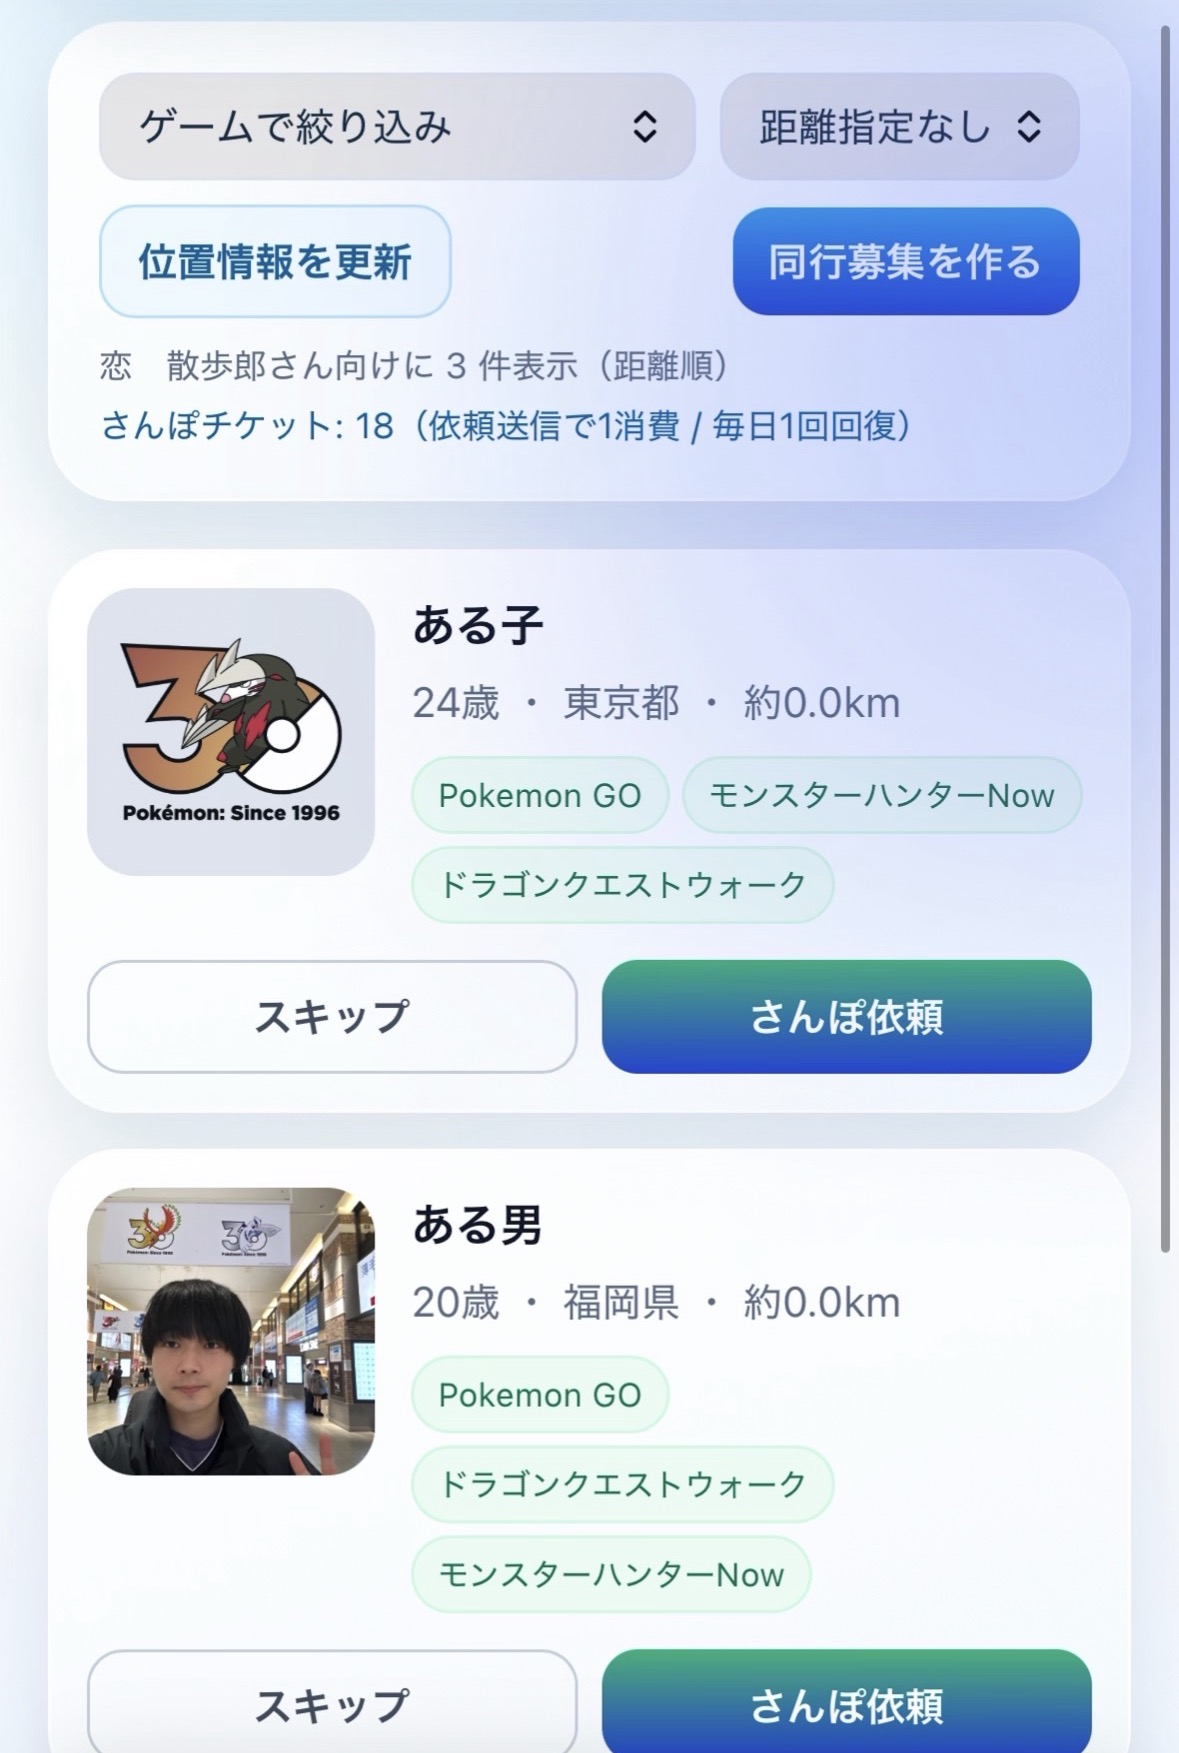
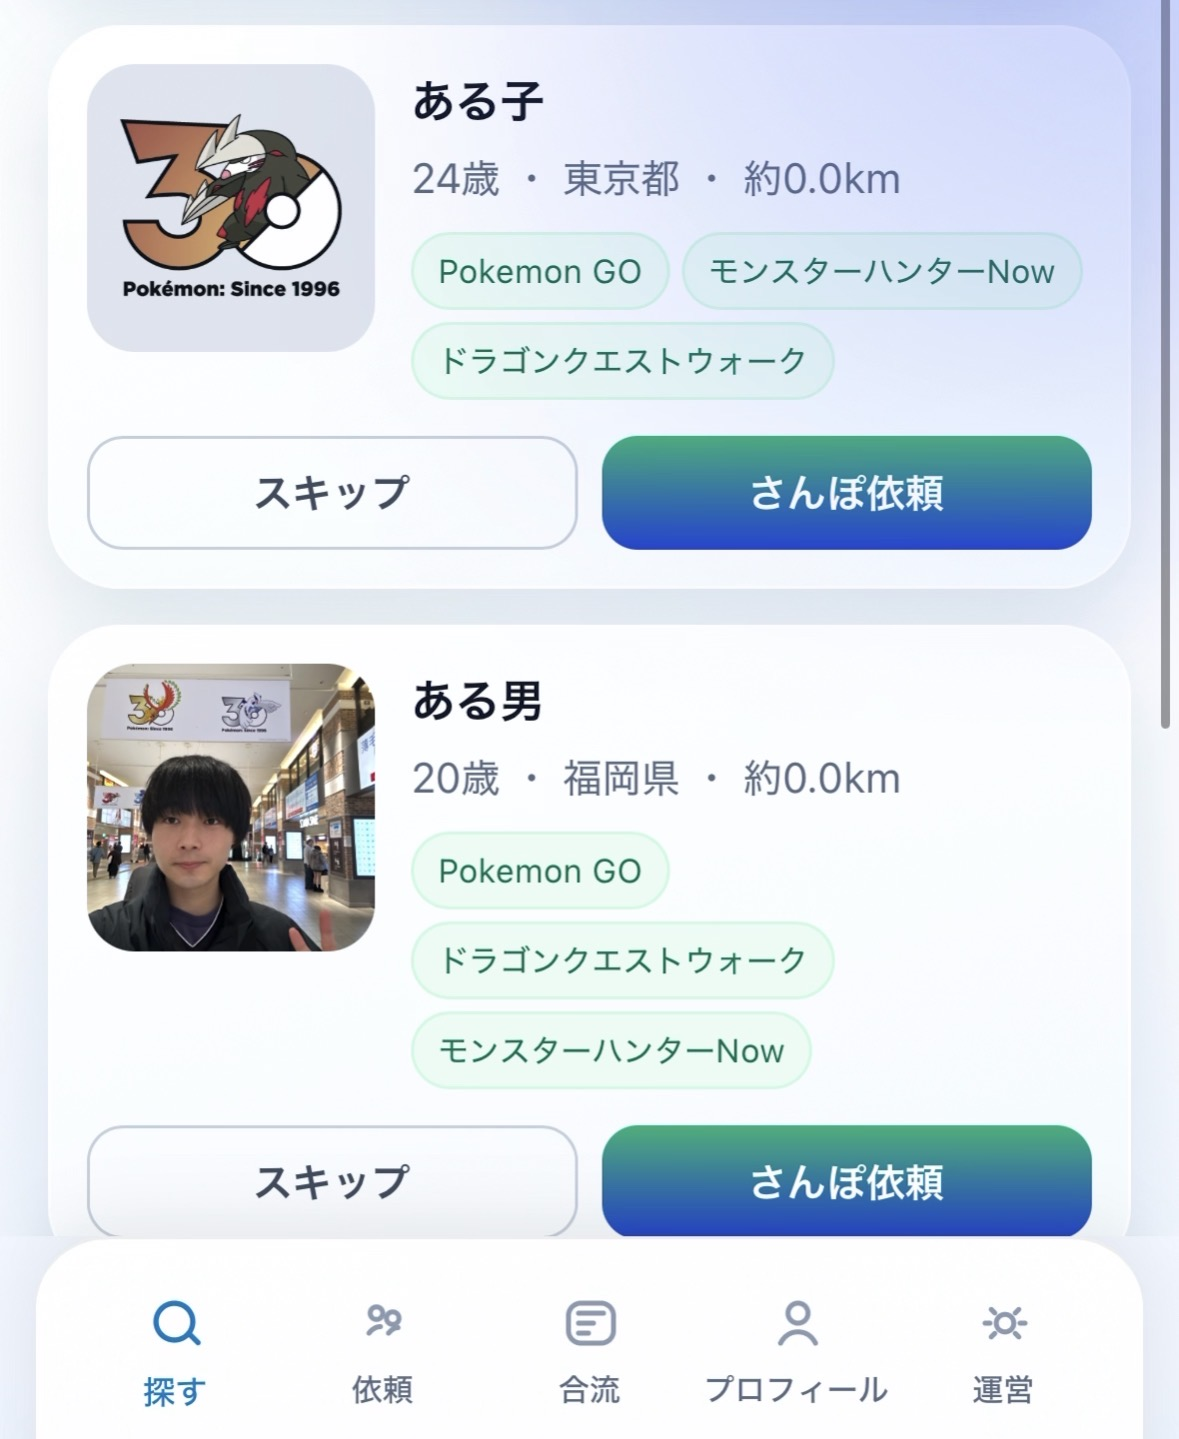
hrd

diff --git a/app/page.tsx b/app/page.tsx
@@ -252,11 +252,11 @@ function FeatureSection() {
               <p className="mt-3 text-sm leading-relaxed text-slate-600 sm:text-base">
                 募集機能では、やりたいレイドや交換など、その場での困りごとを解決します！
               </p>
-              <div className="mt-5 aspect-[9/16] overflow-hidden rounded-2xl border border-slate-200 bg-white">
+              <div className="mt-5 overflow-hidden rounded-2xl border border-slate-200 bg-white">
                 <img
                   src="/feature-recruit.png"
                   alt="募集機能のスクリーンショット"
-                  className="block h-full w-full object-contain"
+                  className="block h-auto w-full"
                   loading="lazy"
                 />
               </div>
@@ -266,11 +266,11 @@ function FeatureSection() {
               <p className="mt-3 text-sm leading-relaxed text-slate-600 sm:text-base">
                 探す機能では、全ユーザーからお好きな相手を選んで、お互いに承認することで会話が可能になります。気の合う友達探しにお使いください！
               </p>
-              <div className="mt-5 aspect-[9/16] overflow-hidden rounded-2xl border border-slate-200 bg-white">
+              <div className="mt-5 overflow-hidden rounded-2xl border border-slate-200 bg-white">
                 <img
                   src="/feature-search.png"
                   alt="探す機能のスクリーンショット"
-                  className="block h-full w-full object-contain"
+                  className="block h-auto w-full"
                   loading="lazy"
                 />
               </div>
